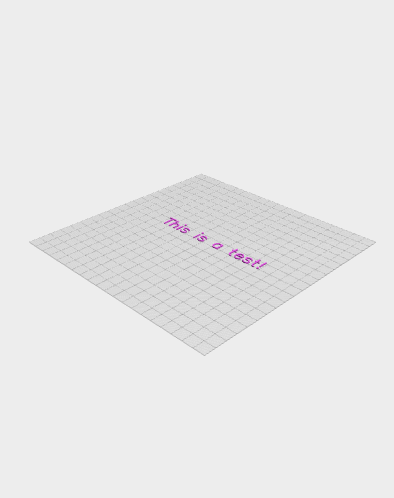
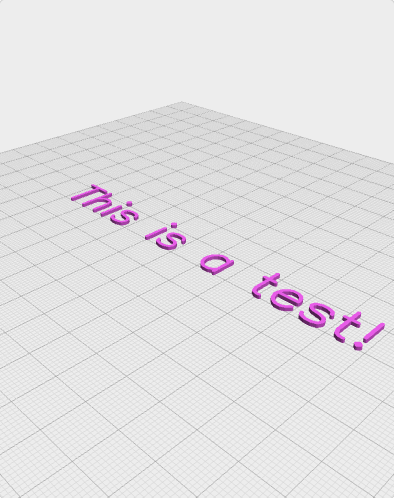
remove products

diff --git a/api/shared/product-data.js b/api/shared/product-data.js
@@ -718,37 +718,9 @@ const data = {
                 "3d printing"
             ],
             "id": 1090
-        },
-        {
-            "file": "assets/products/include-subfolder/main.jscad",
-            "image": "assets/products/include-subfolder/main.png",
-            "name": "main",
-            "id": 1100
-        },
-        {
-            "file": "assets/products/include-subfolder/sub/subModule.jscad",
-            "image": "assets/products/include-subfolder/sub/subModule.png",
-            "name": "subModule",
-            "id": 1110
-        },
-        {
-            "file": "assets/products/include-test/a01.jscad",
-            "image": "assets/products/include-test/a01.png",
-            "name": "a01",
-            "id": 1120
-        },
-        {
-            "file": "assets/products/include-test/a02.jscad",
-            "image": "assets/products/include-test/a02.png",
-            "name": "a02",
-            "id": 1130
-        },
-        {
-            "file": "assets/products/include-test/main.jscad",
-            "image": "assets/products/include-test/main.png",
-            "name": "main",
-            "id": 1140
         }
+
+
     ]
 };
 